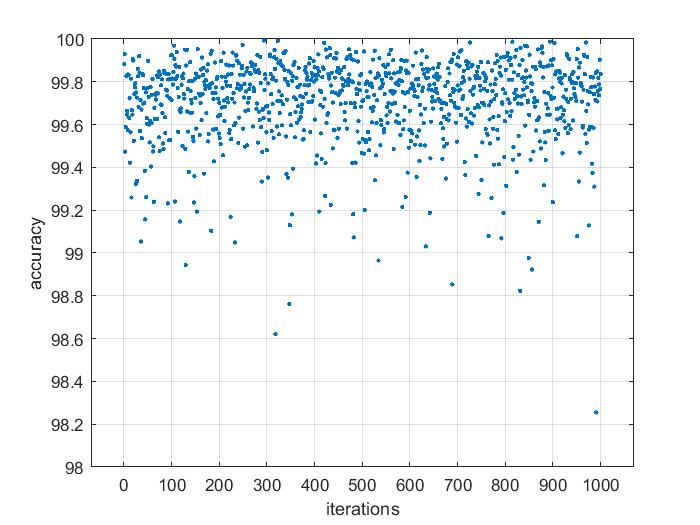
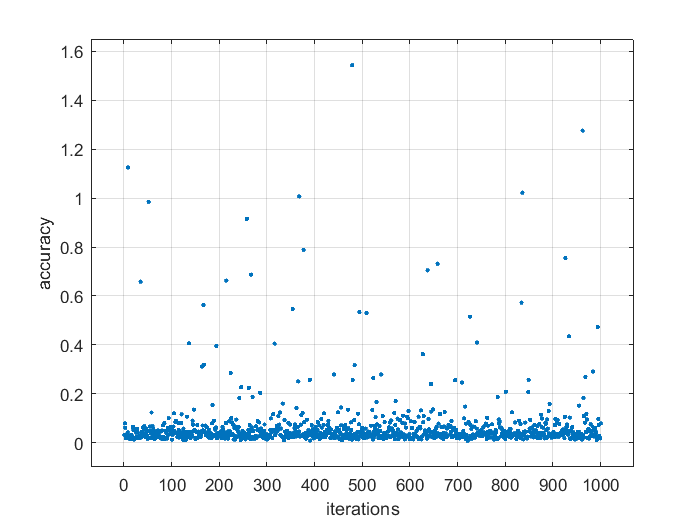
added noise free case analysis

diff --git a/project1/project1_t2_p1.m b/project1/project1_t2_p1.m
@@ -1,4 +1,4 @@
-clear all;
+clear;
 close all;
 clc;
 
@@ -13,17 +13,17 @@ big_lambda = [zeros(n, 1)' ones(q, 1)']';
 L=(1e-3)* big_lambda;
 num_iterations=1000;
 T=1:num_iterations;
-accuracy=[];
-miss=0; % Counts the number of times
+accuracy=zeros(num_iterations, 1);
+miss=zeros(num_iterations, 1); % Counts the number of times
 
 for i=T
     a= zeros(q,1);   %attacks vector
     C= randn(q,n);
     x= randn(n,1);
     S_a= randi(q,h,1); %support of attacks vector % could contain duplicates
-    nu = sigma*randn(q,1);
-   % nu=0;
-    epsilon = 1e-8; %precision (?)
+%     nu = sigma*randn(q,1);
+    nu=0;
+    epsilon = 1e-8; %precision
     tau = norm(C,2)^(-2) - epsilon;
     
     %set non-zero values of a (case with zero_norm(a)=2 )
@@ -54,20 +54,21 @@ for i=T
     % returns 0 if at least one component is different
 
     if ~compare(a_indices,afound_indices)  
-        miss = miss+1;
+        miss(i) = miss(i)+1;
     end
 
-    accuracy(i)= 100 - norm(x_found - x,2);
+    accuracy(i)= norm(x_found - x,2);
     % Distance between x_found and x. The lower the better.
-    % Sottraggo 100 così l'accuracy è al 100% quando la norma è nulla
 end
 
-miss
+%%
+
+display(mean(miss)*100);
+disp(max(accuracy));
+disp(min(accuracy));
 
 plot(T,accuracy,".");
 xlabel("Iterations");
-ylabel("Accuracy (%)");
+ylabel("Accuracy");
 axis padded
-ylim([98, 100])
 grid;
-

diff --git a/project1/project1_t2_p2.m b/project1/project1_t2_p2.m
@@ -1,4 +1,4 @@
-clear all;
+clear;
 close all;
 clc;
 
@@ -13,8 +13,8 @@ big_lambda = [zeros(n, 1)' ones(q, 1)']';
 L=(1e-3)* big_lambda;
 num_iterations=1000;
 T=1:num_iterations;
-accuracy=[];
-miss=0; % Counts the number of times
+accuracy=zeros(num_iterations, 1);
+miss=zeros(num_iterations, 1); % Counts the number of times
 
 for i=T
     a= zeros(q,1);   %attacks vector
@@ -23,7 +23,7 @@ for i=T
     S_a= randi(q,h,1); %support of attacks vector % could contain duplicates
     nu = sigma*randn(q,1);
    % nu=0;
-    epsilon = 1e-8; %precision (?)
+    epsilon = 1e-8; %precision
     tau = norm(C,2)^(-2) - epsilon;
     y = C*x + nu;   % no attack
 
@@ -51,20 +51,21 @@ for i=T
     % Compares two vector componently-wise, returns 1 if they're equal,
     % returns 0 if at least one component is different
     if ~compare(a_indices,afound_indices)  
-        miss = miss+1;
+        miss(i) = miss(i)+1;
     end
 
-    accuracy(i)= 100 - norm(x_found - x,2);
+    accuracy(i)= norm(x_found - x,2);
     % Distance between x_found and x. The lower the better.
-    % Sottraggo 100 così l'accuracy è al 100% quando la norma è nulla
 end 
 
-miss
+%%
+
+display(mean(miss)*100);
+disp(max(accuracy));
+disp(min(accuracy));
 
 plot(T,accuracy,".");
-xlabel("iterations");   
+xlabel("iterations");
 ylabel("accuracy");
 axis padded
-ylim([98, 100])
 grid;
-

diff --git a/project1/supp.m b/project1/supp.m
@@ -1,0 +1,3 @@
+function res = supp(v)
+    res = find(v ~= 0);
+end
